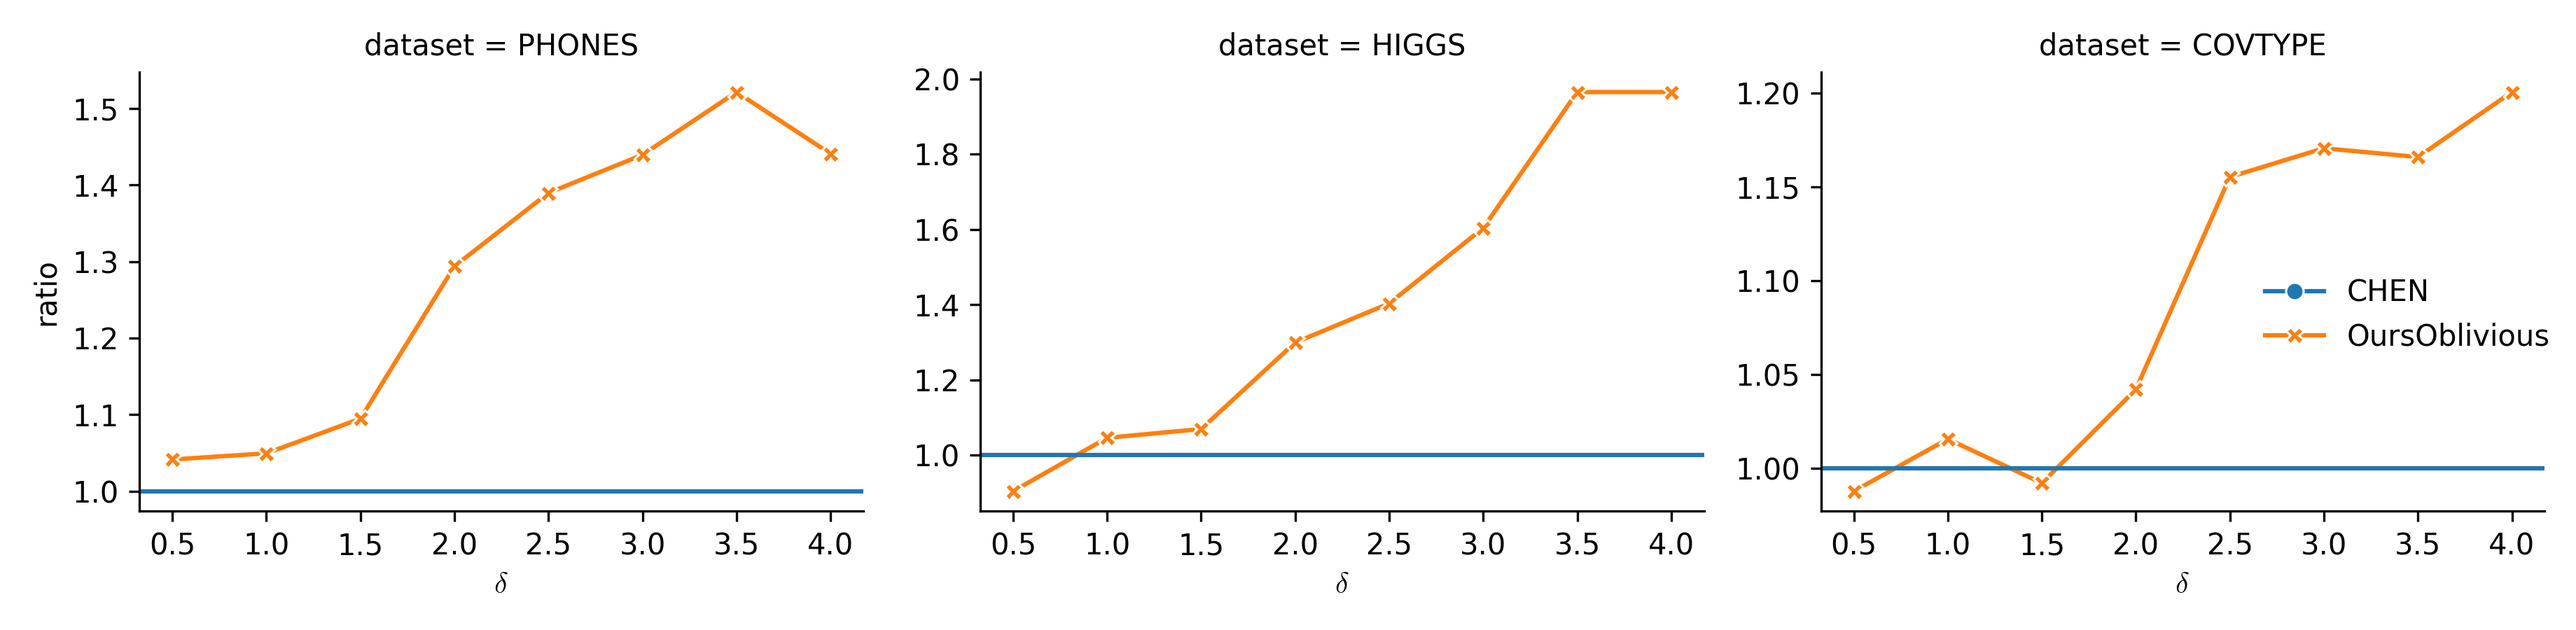
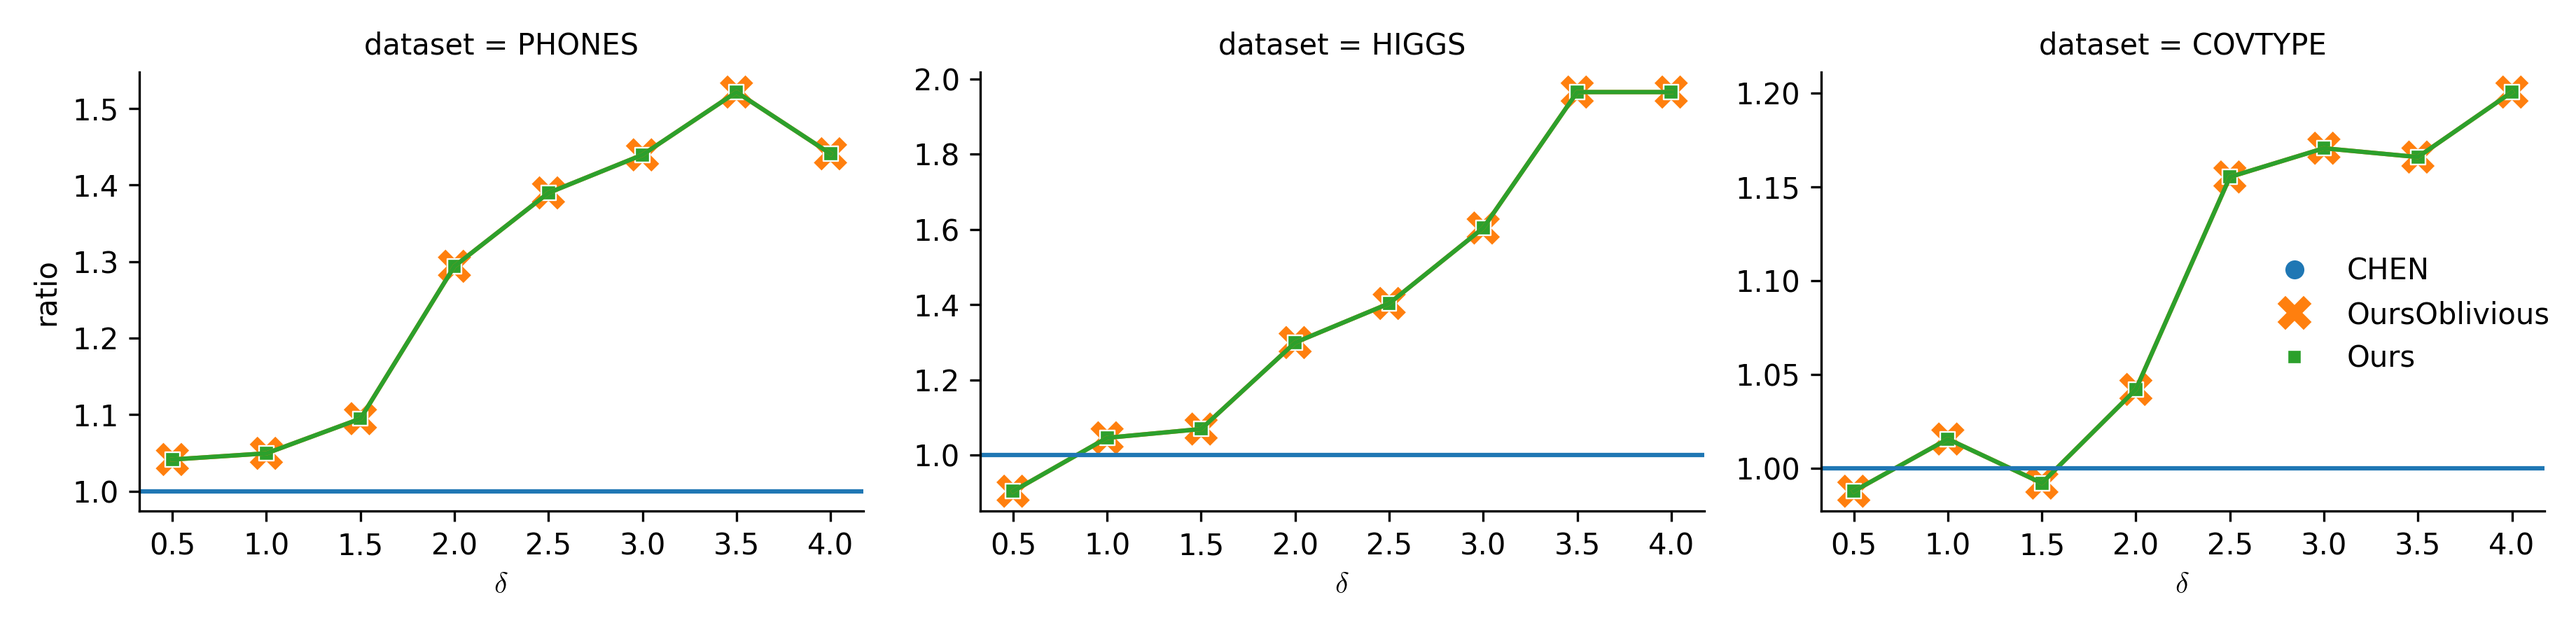
update graph deltas_lines

diff --git a/results/delta_lines.py b/results/delta_lines.py
@@ -1,3 +1,4 @@
+import numpy as np
 from icecream import ic
 import seaborn as sns
 import polars as pl
@@ -13,7 +14,7 @@ y_axis = ["update", "query", "memory", "ratio"]
 color = "algorithm"
 
 # File to read from
-datasets = ["phones", "higgs", "covtype", "normalized", "random"]
+datasets = ["phones", "higgs", "covtype"]
 file_names = []
 for i in datasets:
     file_names.append(x_axis + "_" + i)
@@ -66,14 +67,17 @@ def filter(df):
     """
     df = df.filter(
         pl.col("dataset") != "RANDOM",
-        pl.col("algorithm") != "PELLCAPP",
         pl.col("dataset") != "NORMALIZED",
     )
     df = df.with_columns(
         pl.col("algorithm").str.extract(r"DELTA(\d+)").cast(pl.Float64).alias("delta") / 10
     )
     df = df.with_columns(
-        pl.col("algorithm").str.replace(r"PELLCAPPDELTA(\d+)", "OursOblivious")
+        pl.col("algorithm").str.replace(r"PELLCAPPDELTA(\d+)", "OursOblivious"),
+    ).with_columns(
+        pl.col("algorithm").str.replace(r"CAPPDELTA(\d+)", "Ours")
+    ).filter(
+        pl.col("algorithm").is_in(["CHEN", "Ours", "OursOblivious"])
     )
     df = df.filter(pl.col("wsize").is_in([10000, 50000, 500000]))
     df = df.with_columns(
@@ -90,6 +94,27 @@ def hline(data, **kwargs):
         ax.axhline(bline, c=kwargs["color"])
 
 
+def load(file):
+    input_file = "experiments_results/" + file + ".csv"
+    if replace_commas:
+        replace_dots_with_commas(input_file)
+    df = pl.read_csv(source=input_file, separator=";", infer_schema_length=10000)
+    df = ( df
+        .with_columns(pl.lit(file.split("_")[1].upper())
+        .alias("dataset"))
+    )
+    if "wsize" not in df.columns:
+        df = df.with_columns(pl.lit(10000, pl.Int64).alias("wsize"))
+    if "type" in df.columns:
+        df = df.filter(pl.col("type") == "Rand")
+    df = df.select(
+        "wsize", "algorithm", "update", "query", "radius", "ratio", "memory", "dataset"
+    )
+    # FILTERS
+    df = filter(df)
+    return df
+
+
 def read_and_plot_bar(output_file_path):
     """
     Reads data from input files, performs filtering, and generates bar plots based on the provided parameters.
@@ -102,27 +127,17 @@ def read_and_plot_bar(output_file_path):
     """
 
     dataframe = []
-    for file in file_names:
-        if file == "random" or file == "higgs":
-            continue
-        input_file = "experiments_results/" + file + ".csv"
-        if replace_commas:
-            replace_dots_with_commas(input_file)
-        df = pl.read_csv(source=input_file, separator=";", infer_schema_length=10000)
-        df = df.with_columns(pl.lit(file.split("_")[1].upper()).alias("dataset"))
-        # FILTERS
-        df = filter(df)
+    for dataset in datasets:
+        file = "wsize_" + dataset
+        df = load(file)
+        dataframe.append(df)
+        file = "type_" + dataset
+        df = load(file).filter(pl.col("algorithm") == "Ours")
         dataframe.append(df)
     dat = pl.concat(dataframe)
     dat = dat.filter(pl.col("wsize") == 10000)
 
-    ic(dat)
-
     for graph in y_axis:
-        # if graph == "query":
-        #     g = sns.FacetGrid(dat, col="dataset", col_wrap=3, sharex=False, sharey=True, aspect=3)
-        # else :
-        #     g = sns.FacetGrid(dat, col="dataset", col_wrap=3, sharex=False, sharey=False, aspect=3)
         g = sns.FacetGrid(
             dat,
             col="dataset",
@@ -137,9 +152,16 @@ def read_and_plot_bar(output_file_path):
             x="delta",  # x axis
             y=graph,  # y axis
             hue="algorithm",  # color
+        )
+        g.map_dataframe(
+            sns.scatterplot,  # barplot or lineplot
+            x="delta",  # x axis
+            y=graph,  # y axis
+            hue="algorithm",  # color
+            size="algorithm",
             style="algorithm",
-            markers=True,
-            dashes=False,
+            sizes=list( np.array([1, 1, 3]) * 50 ),
+            size_order=["CHEN", "Ours", "OursOblivious"],
         )
         g.map_dataframe(
             hline,
